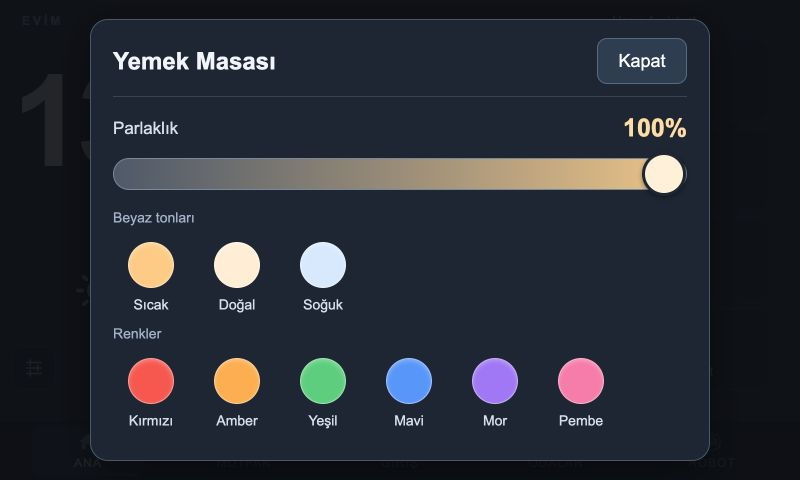
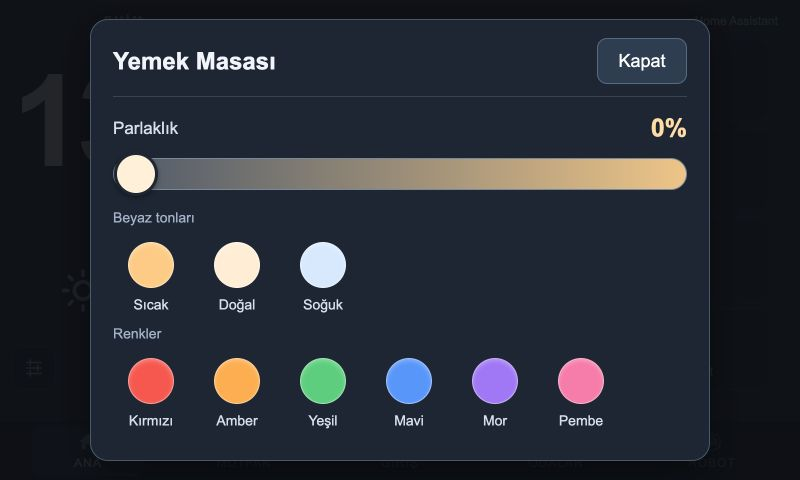
Reduce touch latency and hidden renders; fix off-state dimming and corridor group

Changed region(s): [[0.7812, 0.3125, 0.875, 0.4062], [0.125, 0.3125, 0.2188, 0.4062], [0.7812, 0.25, 0.8125, 0.2812]]

diff --git a/examples/panel-v2/panel.js b/examples/panel-v2/panel.js
@@ -5,7 +5,9 @@
     var home = document.getElementById('screen-Ana');
     if (!cfg || !C || !home || document.getElementById('panel-v2')) { return; }
     var cache = {}, versions = {}, cards = [], busy = {}, listeners = window.entityListeners || {};
-    var snapshotNeeded = false, connectionGeneration = 0;
+    var snapshotNeeded = false, connectionGeneration = 0, renderQueued=false,lastConnection=null;
+    function activeView(){try{return decodeURIComponent(window.location.hash.replace(/^#screen-/,''))||'Ana';}catch(ignore){return 'Ana';}}
+    function scheduleRender(){if(renderQueued){return;}renderQueued=true;setTimeout(function(){renderQueued=false;render();},16);}
     var modalIds = [], focusBeforeDialog = null, noticeTimer, modal, keyboardInput = false;
     document.addEventListener('keydown',function(ev){if(ev.keyCode===9){keyboardInput=true;document.body.classList.add('pv2-keyboard');}},true);
     function pointerInput(){keyboardInput=false;document.body.classList.remove('pv2-keyboard');}
@@ -51,8 +53,8 @@
     }
     function perform(key, domain, service, ids, data) {
       if (busy[key]) { return; }
-      busy[key]=true; render();
-      call(domain,service,ids,data).then(function(){busy[key]=false;render();},function(){busy[key]=false;render();notice('İşlem gerçekleştirilemedi. Bağlantıyı kontrol edin.');});
+      busy[key]=true; scheduleRender();
+      call(domain,service,ids,data).then(function(){busy[key]=false;scheduleRender();},function(){busy[key]=false;scheduleRender();notice('İşlem gerçekleştirilemedi. Bağlantıyı kontrol edin.');});
     }
     function supported(ids) { return ids.filter(function(id){return C.available(get(id));}); }
     function toggle(ids) {
@@ -65,15 +67,14 @@
       b.innerHTML=icon(options.icon);
       var text=node('span','pv2-card-text'), label=node('span','pv2-card-label',options.label), state=node('span','pv2-card-state','Yükleniyor…');
       text.appendChild(label);text.appendChild(state);b.appendChild(text);parent.appendChild(b);
-      var item={button:b,label:label,status:state,options:options};cards.push(item);
+      var item={button:b,label:label,status:state,options:options,view:parent.getAttribute('data-pv2-screen')};cards.push(item);
       C.bindPress(b,function(){
         if (b.disabled) { return; }
-        clickSound();
         if (options.kind==='robot') { var robot=C.robot(get(cfg.vacuum)); if(robot.service){perform('robot','vacuum',robot.service,cfg.vacuum);} }
         else if(options.kind==='alloff'){toggleCountdown();}
         else if(options.kind&&options.kind.indexOf('vacuum-')===0){var action=C.robotControl(get(cfg.vacuum),options.kind.slice(7));if(action.service){perform('vacuum','vacuum',action.service,cfg.vacuum);}}
         else{toggle(options.ids);}
-      },options.ids?function(){clickSound();openDialog(options.label,options.ids);}:null,null,function(){return holdDelay;});
+      },options.ids?function(){openDialog(options.label,options.ids);}:null,null,function(){return holdDelay;},function(){if(!b.disabled){clickSound();}});
       return item;
     }
     document.body.classList.add('panel-v2');
@@ -83,7 +84,7 @@
       var root=node('div','pv2-panel');root.id=name==='Ana'?'panel-v2':'panel-v2-'+name;
       var top=node('div','pv2-top');top.appendChild(node('span','pv2-brand',title));
       var status=node('span','pv2-connection','Bağlanıyor');top.appendChild(status);root.appendChild(top);
-      var body=node('div','pv2-body'),overview=node('div','pv2-overview'),controls=node('div','pv2-controls');
+      var body=node('div','pv2-body'),overview=node('div','pv2-overview'),controls=node('div','pv2-controls');controls.setAttribute('data-pv2-screen',name);
       var clock=node('div','pv2-clock'),date=node('div','pv2-date'),weekday=node('div','pv2-date');overview.appendChild(clock);overview.appendChild(date);overview.appendChild(weekday);
       var weather=node('div','pv2-weather'),weatherMain=node('div','pv2-weather-main'),weatherIcon=node('span'),temperature=node('span','pv2-temperature','--°'),condition=node('div','pv2-condition','Yükleniyor…');weatherMain.appendChild(weatherIcon);weatherMain.appendChild(temperature);weather.appendChild(weatherMain);weather.appendChild(condition);overview.appendChild(weather);
       var meeting=node('div','pv2-meeting');meeting.innerHTML='<span class="pv2-meeting-dot"></span>Toplantı';overview.appendChild(meeting);
@@ -95,7 +96,8 @@
     addCard(controls,{label:'Mutfak',ids:[cfg.lights.counter,cfg.lights.sink],icon:'kitchen'});
     addCard(controls,{label:'Salon',ids:[cfg.lights.living],icon:'bulb'});
     addCard(controls,{label:'Yemek Masası',ids:[cfg.lights.dining],icon:'bulb'});
-    addCard(controls,{label:'Koridor',ids:[cfg.lights.front,cfg.lights.rear],icon:'corridor'});
+    var corridorIds=[cfg.lights.front,cfg.lights.rear];if(cfg.roomLights&&cfg.roomLights.entrance){corridorIds.push(cfg.roomLights.entrance);}
+    addCard(controls,{label:'Koridor',ids:corridorIds,icon:'corridor'});
     addCard(controls,{label:'Çalışma Odası',ids:[cfg.lights.office],icon:'desk'});
     addCard(controls,{label:'Yatak Odası',ids:[cfg.lights.bedroom],icon:'bed'});
     addCard(controls,{label:'Evi Temizle',icon:'robot',kind:'robot',action:true});
@@ -161,10 +163,10 @@
       if(!C.available(entry)){section.appendChild(node('p','pv2-dialog-hint','Bu lambaya şu anda ulaşılamıyor.'));settings.appendChild(section);return;}
       if(cap.dim){
         var row=node('div','pv2-setting-row'),label=node('label','','Parlaklık'),input=node('input'),output=node('output');
-        input.type='range';input.min='1';input.max='100';input.step='1';input.value=String(Math.max(1,Math.round((a.brightness===undefined||a.brightness===null?255:a.brightness)/255*100)));input.setAttribute('aria-label',(cfg.labels&&cfg.labels[id]||'Lamba')+' parlaklık');
-        input.id='pv2-dim-'+id.replace(/\./g,'-');label.htmlFor=input.id;output.textContent=input.value+'%';
+        var brightness=C.brightness(entry);input.type='range';input.min='0';input.max='100';input.step='1';input.value=String(brightness.value);input.setAttribute('aria-label',(cfg.labels&&cfg.labels[id]||'Lamba')+' parlaklık');
+        input.id='pv2-dim-'+id.replace(/\./g,'-');label.htmlFor=input.id;output.textContent=brightness.label;
         input.addEventListener('input',function(){setText(output,input.value+'%');},false);
-        input.addEventListener('change',function(){clickSound();perform('dim:'+id,'light','turn_on',id,{brightness_pct:Number(input.value)});},false);
+        input.addEventListener('change',function(){clickSound();var value=Number(input.value);if(value===0){perform('dim:'+id,'light','turn_off',id);}else{perform('dim:'+id,'light','turn_on',id,{brightness_pct:value});}},false);
         row.appendChild(label);row.appendChild(input);row.appendChild(output);section.appendChild(row);
       }
       if(cap.temperature){
@@ -209,18 +211,19 @@
       b.setAttribute('aria-label',label+' · '+detail);if(o.ids){b.setAttribute('aria-pressed',on?'true':'false');b.title='Dokun: aç/kapat · Uzun bas: lamba ayarları';}
     }
     var conditions={'clear-night':'Açık gece','cloudy':'Bulutlu','exceptional':'Olağan dışı','fog':'Sisli','hail':'Dolu','lightning':'Şimşekli','lightning-rainy':'Gök gürültülü','partlycloudy':'Parçalı bulutlu','pouring':'Sağanak','rainy':'Yağmurlu','snowy':'Karlı','snowy-rainy':'Karla karışık','sunny':'Güneşli','windy':'Rüzgârlı','windy-variant':'Rüzgârlı'};
+    function updateMeeting(v){var entry=get(cfg.meeting),age=new Date().getTime()/1000-Number(entry.attributes.last_report_epoch||0);v.meeting.classList.toggle('pv2-active',v.name==='Ana'&&connection()&&entry.state==='on'&&age>=-5&&age<40);}
     function render(){
-      for(var i=0;i<cards.length;i++){drawCard(cards[i]);}
+      var active=activeView();
+      for(var i=0;i<cards.length;i++){if(cards[i].view===active){drawCard(cards[i]);}}
       var entry=get(cfg.weather),t=entry.attributes.temperature,valid=C.available(entry)&&t!==null&&t!==undefined&&t!==''&&isFinite(Number(t));
       var weatherName=entry.state==='sunny'?'sun':entry.state==='clear-night'?'moon':(/rain|pouring|hail|snow/.test(entry.state)?'rain':'cloud');
-      var callState=get(cfg.meeting),age=new Date().getTime()/1000-Number(callState.attributes.last_report_epoch||0);
-      for(var vi=0;vi<views.length;vi++){var v=views[vi];
+      for(var vi=0;vi<views.length;vi++){var v=views[vi];if(v.name!==active){continue;}
         setText(v.status,connection()?'● Home Assistant':'○ Bağlantı yok');v.status.title=connection()?'Home Assistant bağlantısı açık':'Home Assistant bağlantısı kesildi';v.status.setAttribute('aria-label',v.status.title);v.status.style.color=connection()?'#9fd8c2':'#ffb4b4';
         setText(v.temperature,valid?String(Math.round(Number(t)*10)/10).replace('.',',')+'°':'--°');setText(v.condition,!connection()?'Bağlantı yok':(C.available(entry)?conditions[entry.state]||'Hava durumu':'Veri yok'));
         if(weatherName!==v.previousWeatherIcon){v.weatherIcon.innerHTML=icon(weatherName);v.previousWeatherIcon=weatherName;}
-        v.meeting.classList.toggle('pv2-active',v.name==='Ana'&&connection()&&callState.state==='on'&&age>=-5&&age<40);
+        updateMeeting(v);
       }
-      if(robotStatus){var names={docked:'İstasyonda',cleaning:'Temizlik yapıyor',paused:'Duraklatıldı',returning:'İstasyona dönüyor',idle:'Temizliğe hazır',error:'Robot hata bildiriyor'};setText(robotStatus,!connection()?'Bağlantı yok':names[get(cfg.vacuum).state]||'Robota ulaşılamıyor');}
+      if(robotStatus&&active==='Robot'){var names={docked:'İstasyonda',cleaning:'Temizlik yapıyor',paused:'Duraklatıldı',returning:'İstasyona dönüyor',idle:'Temizliğe hazır',error:'Robot hata bildiriyor'};setText(robotStatus,!connection()?'Bağlantı yok':names[get(cfg.vacuum).state]||'Robota ulaşılamıyor');}
     }
     // HoaryDash's warming pool can replay an older initial snapshot. On each
     // connection, reconcile only our small entity set once (two requests at a
@@ -235,7 +238,7 @@
         var id=unique[index++], version=versions[id] || 0;
         window.goFetch('/api/proxy/api/states/'+encodeURIComponent(id)+'?panel_snapshot='+new Date().getTime(),function(error,entry){
           if(!error && generation===connectionGeneration && (versions[id]||0)===version && entry && entry.entity_id===id){
-            cache[id]={state:entry.state,attributes:entry.attributes || {}};render();
+            cache[id]={state:entry.state,attributes:entry.attributes || {}};scheduleRender();
           }
           next();
         });
@@ -252,15 +255,16 @@
     // Old adjustable widgets otherwise throw on attribute-only/state-only updates.
     for(var eid in listeners){if(Object.prototype.hasOwnProperty.call(listeners,eid)){
       (function(id, callbacks){var old=callbacks.slice(0);callbacks.length=0;cache[id]={state:'unknown',attributes:{}};
-        callbacks.push(function(state,attrs){versions[id]=(versions[id]||0)+1;cache[id]=C.merge(get(id),state,attrs||{});render();if(snapshotNeeded){snapshotNeeded=false;var generation=connectionGeneration;setTimeout(function(){if(generation===connectionGeneration){reconcileSnapshot(generation);}},0);}for(var i=0;i<old.length;i++){if(old[i]){try{old[i](cache[id].state,cache[id].attributes);}catch(ignore){/* Isolate legacy widget failures. */}}}});
+        callbacks.push(function(state,attrs){versions[id]=(versions[id]||0)+1;cache[id]=C.merge(get(id),state,attrs||{});scheduleRender();if(snapshotNeeded){snapshotNeeded=false;var generation=connectionGeneration;setTimeout(function(){if(generation===connectionGeneration){reconcileSnapshot(generation);}},0);}for(var i=0;i<old.length;i++){if(old[i]){try{old[i](cache[id].state,cache[id].attributes);}catch(ignore){/* Isolate legacy widget failures. */}}}});
       })(eid,listeners[eid]);
     }}
     var days=['Pazar','Pazartesi','Salı','Çarşamba','Perşembe','Cuma','Cumartesi'];
-    function clockTick(){var now=new Date();function pad(n){return ('0'+n).slice(-2);}for(var vi=0;vi<views.length;vi++){var v=views[vi];setText(v.clock,pad(now.getHours())+':'+pad(now.getMinutes()));setText(v.date,pad(now.getDate())+'.'+pad(now.getMonth()+1)+'.'+now.getFullYear());setText(v.weekday,days[now.getDay()]);}render();}
-    window.addEventListener('hashchange',closeDialog,false);
-    window.addEventListener('screen-navigate',closeDialog,false);
+    function clockTick(){var now=new Date(),active=activeView();function pad(n){return ('0'+n).slice(-2);}for(var vi=0;vi<views.length;vi++){var v=views[vi];if(v.name!==active){continue;}setText(v.clock,pad(now.getHours())+':'+pad(now.getMinutes()));setText(v.date,pad(now.getDate())+'.'+pad(now.getMonth()+1)+'.'+now.getFullYear());setText(v.weekday,days[now.getDay()]);updateMeeting(v);}if(active==='Ana'&&get(cfg.countdown).state==='on'){for(var ci=0;ci<cards.length;ci++){if(cards[ci].options.kind==='alloff'){drawCard(cards[ci]);break;}}}if(lastConnection!==connection()){lastConnection=connection();scheduleRender();}}
+    function navigated(){closeDialog();clockTick();render();}
+    window.addEventListener('hashchange',navigated,false);
+    window.addEventListener('screen-navigate',navigated,false);
     document.addEventListener('visibilitychange',function(){if(document.hidden){closeDialog();}},false);
-    clockTick();setInterval(clockTick,1000);
+    clockTick();render();setInterval(clockTick,1000);
     clearTimeout(window.panelV2LoadingTimer);document.documentElement.classList.remove('pv2-loading');
   }
   if(document.readyState==='loading'){document.addEventListener('DOMContentLoaded',ready,false);}else{ready();}

diff --git a/examples/panel-v2/core.js b/examples/panel-v2/core.js
@@ -23,6 +23,13 @@
       min: a.min_color_temp_kelvin || (a.max_mireds ? Math.round(1000000 / a.max_mireds) : 2200),
       max: a.max_color_temp_kelvin || (a.min_mireds ? Math.round(1000000 / a.min_mireds) : 6500)};
   };
+  api.brightness = function(e){
+    if(e.state==='off'){return {value:0,label:'0%'};}
+    var b=e.attributes.brightness;
+    if(b===undefined||b===null||!isFinite(Number(b))){return {value:0,label:'—'};}
+    var value=Math.max(0,Math.min(100,Math.round(Number(b)/255*100)));
+    return {value:value,label:value+'%'};
+  };
   api.robot = function (e) {
     if (!api.available(e)) { return {label: 'Robot', detail: 'Bağlantı yok', service: null}; }
     if (e.state === 'cleaning' || e.state === 'paused') { return {label: 'Temizliği Durdur', detail: 'İstasyona gönder', service: 'return_to_base'}; }
@@ -46,15 +53,16 @@
     var start = Date.parse(e.attributes.last_triggered || '');
     return isFinite(start) ? Math.max(0, Math.min(60, Math.ceil((start + 60000 - now) / 1000))) : null;
   };
-  api.bindPress = function (el, shortPress, longPress, scheduler, holdDelay) {
-    var timer = null, held = false, startX = 0, startY = 0, touchAt = 0;
+  api.bindPress = function (el, shortPress, longPress, scheduler, holdDelay, pressStart) {
+    var timer = null, held = false, startX = 0, startY = 0, touchAt = 0, started = false, suppressClickUntil = 0;
     scheduler = scheduler || {set: function (fn, ms) { return setTimeout(fn, ms); }, clear: function (id) { clearTimeout(id); }, now: function () { return new Date().getTime(); }};
     function cancel() { if (timer !== null) { scheduler.clear(timer); timer = null; } }
     function start(ev) {
       if (ev.type === 'mousedown' && (scheduler.now() - touchAt < 800 || ev.button !== 0)) { return; }
-      if (ev.touches && ev.touches.length !== 1) { cancel(); return; }
+      if (ev.touches && ev.touches.length !== 1) { cancel(); held=true;started=false;return; }
       if (ev.touches) { touchAt = scheduler.now(); }
-      held = false;
+      held = false;started = true;
+      if(pressStart){pressStart();}
       var p = ev.touches ? ev.touches[0] : ev; startX = p.clientX; startY = p.clientY;
       cancel();
       if (longPress) { timer = scheduler.set(function () { timer = null; held = true; longPress(); }, holdDelay ? holdDelay() : 650); }
@@ -62,12 +70,12 @@
     el.addEventListener('mousedown', start, false);
     el.addEventListener('touchstart', start, false);
     el.addEventListener('touchmove', function (ev) { var p = ev.touches[0]; if (!p || Math.abs(p.clientX - startX) > 12 || Math.abs(p.clientY - startY) > 12) { cancel(); held = true; } }, false);
-    el.addEventListener('touchend', cancel, false);
-    el.addEventListener('touchcancel', function () { cancel(); held = true; }, false);
+    el.addEventListener('touchend', function(ev){cancel();touchAt=scheduler.now();suppressClickUntil=touchAt+800;ev.preventDefault();var act=started&&!held;started=false;held=false;if(act){shortPress();}},false);
+    el.addEventListener('touchcancel', function () { cancel();touchAt=scheduler.now();suppressClickUntil=touchAt+800;held=false;started=false; }, false);
     el.addEventListener('mouseup', cancel, false);
     el.addEventListener('mouseleave', cancel, false);
     el.addEventListener('contextmenu', function (ev) { ev.preventDefault(); }, false);
-    el.addEventListener('click', function (ev) { ev.preventDefault(); ev.stopPropagation(); cancel(); if (!held) { shortPress(); } held = false; }, false);
+    el.addEventListener('click', function (ev) { ev.preventDefault(); ev.stopPropagation(); cancel(); if(scheduler.now()<suppressClickUntil){return;} if (!held) { if(!started&&pressStart){pressStart();} shortPress(); } held = false;started = false; }, false);
     el.addEventListener('keydown', function (ev) { if (ev.keyCode === 27) { cancel(); held = false; } }, false);
   };
   if (typeof module !== 'undefined' && module.exports) { module.exports = api; } else { root.PanelV2Core = api; }

diff --git a/examples/panel-v2/panel.css b/examples/panel-v2/panel.css
@@ -130,3 +130,5 @@ body.panel-v2 { background:#171d27; color:#f2f4f8; font-family:Arial,sans-serif;
 .pv2-audio-actions { display:-webkit-flex; display:flex; }
 .pv2-audio-actions .pv2-sound { min-width:90px; margin-left:5px; padding:8px; }
 .pv2-card:disabled:not(.pv2-pending) { opacity:.6; }
+
+.pv2-card,.pv2-preset,.pv2-settings-trigger { touch-action:manipulation; }

diff --git a/docs/panel-v2.md b/docs/panel-v2.md
@@ -43,8 +43,8 @@ inside the 22 px panel gutter, keeping every tab title clear of this native laye
 Their behaviors are:
 
 - Living room and dining table: tap to toggle; hold 650 ms for settings.
-- Corridor: turn both corridor lights off if either is on, otherwise both on.
-  Hold to adjust the two lights individually.
+- Corridor: group the front corridor, rear corridor, and entrance lights. If any
+  is on, turn all three off; otherwise turn all three on. Hold for individual settings.
 - Bedroom and office: tap to toggle; hold for settings.
 - Kitchen: toggle **counter and sink only**, excluding the dining table. If either
   light is on, turn both off; otherwise turn both on. Hold for individual settings.
@@ -55,7 +55,11 @@ Their behaviors are:
 
 The settings dialog only offers the capabilities the entity supports: brightness,
 three white-temperature presets within the device limits, and six large circular RGB presets.
-The brightness control has a large thumb and percentage readout. An optional
+The brightness control has a large thumb and percentage readout. Off lamps open
+at 0% even if HA retains an old brightness attribute; missing brightness on an on
+lamp is shown as unknown rather than 100%. Opening the dialog sends no command.
+Moving the slider to zero turns the lamp off; a positive value turns it on at the
+chosen level. Ordinary on/off taps still let HA restore its previous brightness. An optional
 **Ses: Kapalı / Açık** preference in **Panel Ayarları** enables a quiet
 click. Open these separate panel settings using the settings icon below the clock/date
 at the lower left; sound controls are not part of individual lamp dialogs. The
@@ -63,7 +67,11 @@ preference is saved in this browser only and defaults on unless explicitly disab
 Small MP3/PCM WAV files are served by HA’s public `/local/` static route
 for old WebView compatibility; no Internet audio request or microphone
 permission is needed. **Sesi Dene** plays a test and reports playback/load errors. The device media volume
-must be audible. Audio failures do not block controls.
+must be audible. Audio failures do not block controls. Light/control card feedback
+starts on touch/mouse down, before the touch-release service command. Valid short touches act at touchend
+without waiting for legacy click synthesis; follow-up mouse/click events are
+suppressed to avoid double commands. Long presses
+do not replay it when opening settings. Drag cancellation still prevents commands.
 Panel settings also offer 450/650/900 ms lamp long-press timing (normal: 650 ms),
 a 20-second panel touch lock for cleaning, and a page reload button. The cleaning
 lock does not disable native Android controls or the native battery overlay.
@@ -94,6 +102,9 @@ prevent duplicate taps until acknowledged. Failures still show a notice.
 A small pre-render gate hides the legacy screen until the overlay is ready, avoiding
 a flash of the old Home layout. An eight-second fallback releases it if initialization
 fails, so a JavaScript failure does not leave a permanent loading screen.
+Only the active tab is rendered. The one-second clock tick updates that tab’s
+clock/meeting freshness and an active Home countdown; it does not redraw all lamp
+cards or hidden tabs. HA event bursts are coalesced into one pending UI update.
 No blur, continuous animation, framework, or extra state polling is introduced.
 Weather changes merge attributes; missing temperature is never replaced with zero.
 On connection/reconnection, a one-time targeted REST reconciliation avoids stale
